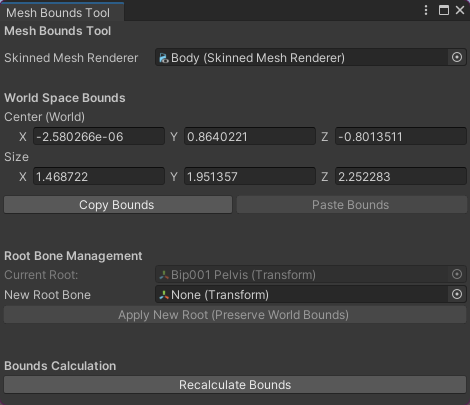
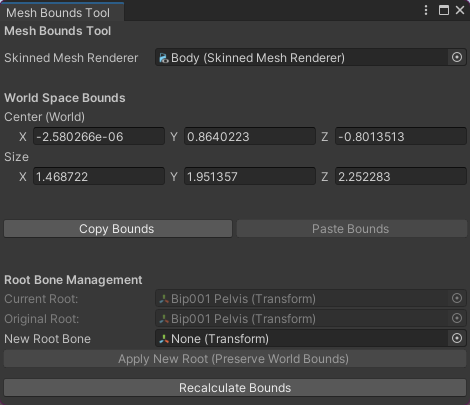
UX improvements
UX improvements

diff --git a/Editor/MeshBoundsTool.cs b/Editor/MeshBoundsTool.cs
@@ -8,6 +8,8 @@ public class MeshBoundsTool : EditorWindow
     private Vector3 worldBoundsCenter;
     private Vector3 worldBoundsSize;
     private Transform newRootBone;
+    private Transform originalRootBone;
+    private Bounds lastKnownBounds;
 
     private static Vector3 copiedCenter;
     private static Vector3 copiedSize;
@@ -34,12 +36,15 @@ public class MeshBoundsTool : EditorWindow
         if (targetSMR != null)
         {
             UpdateWorldBounds();
+            StoreBoundsState();
             Repaint();
         }
     }
 
     private void OnGUI()
     {
+        CheckForExternalBoundsChanges();
+
         GUILayout.Label("Mesh Bounds Tool", EditorStyles.boldLabel);
         EditorGUILayout.Space();
 
@@ -49,6 +54,8 @@ public class MeshBoundsTool : EditorWindow
         if (EditorGUI.EndChangeCheck() && targetSMR != null)
         {
             UpdateWorldBounds();
+            FindOriginalRootBone();
+            StoreBoundsState();
         }
 
         if (targetSMR == null)
@@ -69,7 +76,7 @@ public class MeshBoundsTool : EditorWindow
             ApplyWorldBoundsToSMR();
         }
 
-        EditorGUILayout.Space();
+        EditorGUILayout.Space(30);
 
         EditorGUILayout.BeginHorizontal();
         if (GUILayout.Button("Copy Bounds"))
@@ -91,6 +98,7 @@ public class MeshBoundsTool : EditorWindow
 
         GUI.enabled = false;
         EditorGUILayout.ObjectField("Current Root:", targetSMR.rootBone, typeof(Transform), true);
+        EditorGUILayout.ObjectField("Original Root:", originalRootBone, typeof(Transform), true);
         GUI.enabled = true;
 
         newRootBone = (Transform)EditorGUILayout.ObjectField("New Root Bone", newRootBone, typeof(Transform), true);
@@ -102,12 +110,32 @@ public class MeshBoundsTool : EditorWindow
         }
         GUI.enabled = true;
 
-        EditorGUILayout.Space(30);
+        EditorGUILayout.Space();
 
-        GUILayout.Label("Bounds Calculation", EditorStyles.boldLabel);
         if (GUILayout.Button("Recalculate Bounds"))
         {
             RecalculateBounds();
+        }
+    }
+
+    private void CheckForExternalBoundsChanges()
+    {
+        if (targetSMR == null) return;
+
+        if (lastKnownBounds.center != targetSMR.localBounds.center ||
+            lastKnownBounds.size != targetSMR.localBounds.size)
+        {
+            UpdateWorldBounds();
+            StoreBoundsState();
+            Repaint();
+        }
+    }
+
+    private void StoreBoundsState()
+    {
+        if (targetSMR != null)
+        {
+            lastKnownBounds = targetSMR.localBounds;
         }
     }
 
@@ -144,6 +172,8 @@ public class MeshBoundsTool : EditorWindow
 
         targetSMR.localBounds = new Bounds(localCenter, localSize);
         EditorUtility.SetDirty(targetSMR);
+
+        StoreBoundsState();
     }
 
     private void CopyBounds()
@@ -186,9 +216,82 @@ public class MeshBoundsTool : EditorWindow
         targetSMR.localBounds = new Bounds(localCenter, localSize);
 
         UpdateWorldBounds();
+        StoreBoundsState();
 
         EditorUtility.SetDirty(targetSMR);
         newRootBone = null;
+    }
+
+    private void FindOriginalRootBone()
+    {
+        originalRootBone = null;
+
+        if (targetSMR == null || targetSMR.sharedMesh == null) return;
+
+        string assetPath = AssetDatabase.GetAssetPath(targetSMR.sharedMesh);
+
+        if (!string.IsNullOrEmpty(assetPath))
+        {
+            Object[] assets = AssetDatabase.LoadAllAssetsAtPath(assetPath);
+
+            foreach (var asset in assets)
+            {
+                if (asset is GameObject prefab)
+                {
+                    SkinnedMeshRenderer[] smrs = prefab.GetComponentsInChildren<SkinnedMeshRenderer>();
+                    foreach (var smr in smrs)
+                    {
+                        if (smr.sharedMesh == targetSMR.sharedMesh)
+                        {
+                            if (smr.rootBone != null)
+                            {
+                                // Find the corresponding bone in our current hierarchy
+                                originalRootBone = FindCorrespondingBone(smr.rootBone, targetSMR.transform);
+
+                                if (originalRootBone == null)
+                                {
+
+                                    // Try a broader search - search from the scene root or the entire hierarchy
+                                    Transform[] allTransforms = null;
+
+                                    // First try searching from the root of the GameObject hierarchy
+                                    Transform rootTransform = targetSMR.transform;
+                                    while (rootTransform.parent != null)
+                                    {
+                                        rootTransform = rootTransform.parent;
+                                    }
+                                    allTransforms = rootTransform.GetComponentsInChildren<Transform>();
+
+                                    foreach (Transform t in allTransforms)
+                                    {
+                                        if (t.name == smr.rootBone.name)
+                                        {
+                                            originalRootBone = t;
+                                            break;
+                                        }
+                                    }
+
+                                    // If still not found, try searching just the bones array of the current SMR
+                                    if (originalRootBone == null && targetSMR.bones != null)
+                                    {
+                                        foreach (Transform bone in targetSMR.bones)
+                                        {
+                                            if (bone != null && bone.name == smr.rootBone.name)
+                                            {
+                                                originalRootBone = bone;
+                                                break;
+                                            }
+                                        }
+                                    }
+                                }
+                            }
+
+                            return;
+                        }
+                    }
+                }
+            }
+        }
     }
 
     private void RecalculateBounds()
@@ -197,7 +300,23 @@ public class MeshBoundsTool : EditorWindow
 
         Undo.RecordObject(targetSMR, "Recalculate Default SMR Bounds");
 
-        // Try to get bounds from the original asset
+        Transform savedCurrentRootBone = targetSMR.rootBone;
+
+        if (originalRootBone == null)
+        {
+            FindOriginalRootBone();
+        }
+
+        if (originalRootBone != null)
+        {
+            targetSMR.rootBone = originalRootBone;
+            Debug.Log($"<color=green>[Mesh Bounds Tool]</color> Temporarily set root to original: {originalRootBone.name}");
+        }
+
+        Vector3 savedWorldCenter = Vector3.zero;
+        Vector3 savedWorldSize = Vector3.zero;
+        bool hasSavedBounds = false;
+
         string assetPath = AssetDatabase.GetAssetPath(targetSMR.sharedMesh);
 
         if (!string.IsNullOrEmpty(assetPath))
@@ -214,17 +333,91 @@ public class MeshBoundsTool : EditorWindow
                         if (smr.sharedMesh == targetSMR.sharedMesh)
                         {
                             targetSMR.localBounds = smr.localBounds;
-                            UpdateWorldBounds();
-                            EditorUtility.SetDirty(targetSMR);
 
-                            return;
+                            // Save the world transforms after applying original bounds with original root
+                            Transform rootTransform = targetSMR.rootBone != null ? targetSMR.rootBone : targetSMR.transform;
+                            savedWorldCenter = rootTransform.TransformPoint(targetSMR.localBounds.center);
+                            savedWorldSize = Vector3.Scale(targetSMR.localBounds.size, rootTransform.lossyScale);
+                            hasSavedBounds = true;
+
+                            break;
                         }
                     }
+                    if (hasSavedBounds) break;
                 }
             }
         }
 
-        RecalculateDefaultBoundsManual();
+        if (originalRootBone != null && savedCurrentRootBone != originalRootBone)
+        {
+            targetSMR.rootBone = savedCurrentRootBone;
+
+            if (hasSavedBounds)
+            {
+                Transform restoredRootTransform = targetSMR.rootBone != null ? targetSMR.rootBone : targetSMR.transform;
+                Vector3 localCenter = restoredRootTransform.InverseTransformPoint(savedWorldCenter);
+                Vector3 localSize = new Vector3(
+                    Mathf.Abs(savedWorldSize.x / restoredRootTransform.lossyScale.x),
+                    Mathf.Abs(savedWorldSize.y / restoredRootTransform.lossyScale.y),
+                    Mathf.Abs(savedWorldSize.z / restoredRootTransform.lossyScale.z)
+                );
+
+                targetSMR.localBounds = new Bounds(localCenter, localSize);
+            }
+        }
+
+        // If no asset bounds found, fallback to manual method
+        if (hasSavedBounds)
+        {
+            UpdateWorldBounds();
+            EditorUtility.SetDirty(targetSMR);
+        }
+        else
+        {
+            RecalculateDefaultBoundsManual();
+        }
+    }
+
+    private Transform FindCorrespondingBone(Transform originalBone, Transform searchRoot)
+    {
+        Transform[] allTransforms = searchRoot.GetComponentsInChildren<Transform>();
+
+        foreach (Transform t in allTransforms)
+        {
+            if (t.name == originalBone.name)
+            {
+                if (DoesHierarchyMatch(originalBone, t))
+                {
+                    return t;
+                }
+            }
+        }
+
+        return null;
+    }
+
+    private bool DoesHierarchyMatch(Transform original, Transform candidate)
+    {
+        Transform origParent = original.parent;
+        Transform candParent = candidate.parent;
+
+        int levelsToCheck = 2;
+        for (int i = 0; i < levelsToCheck; i++)
+        {
+            if (origParent == null && candParent == null)
+                return true; // Both reached root
+
+            if (origParent == null || candParent == null)
+                return false; // One reached root, other didn't
+
+            if (origParent.name != candParent.name)
+                return false; // Names don't match
+
+            origParent = origParent.parent;
+            candParent = candParent.parent;
+        }
+
+        return true;
     }
 
     private void RecalculateDefaultBoundsManual()
